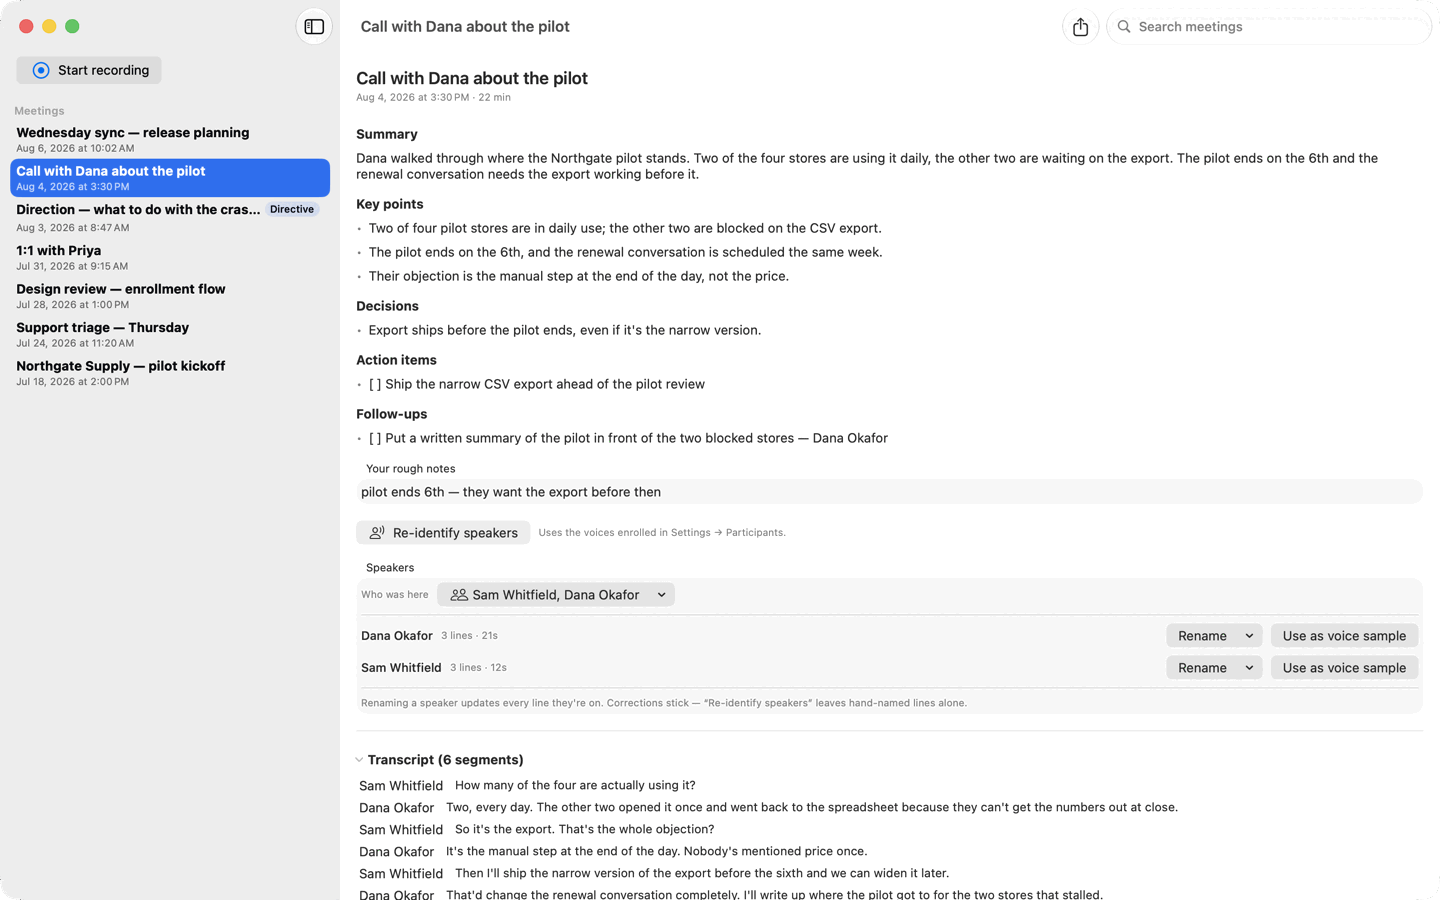
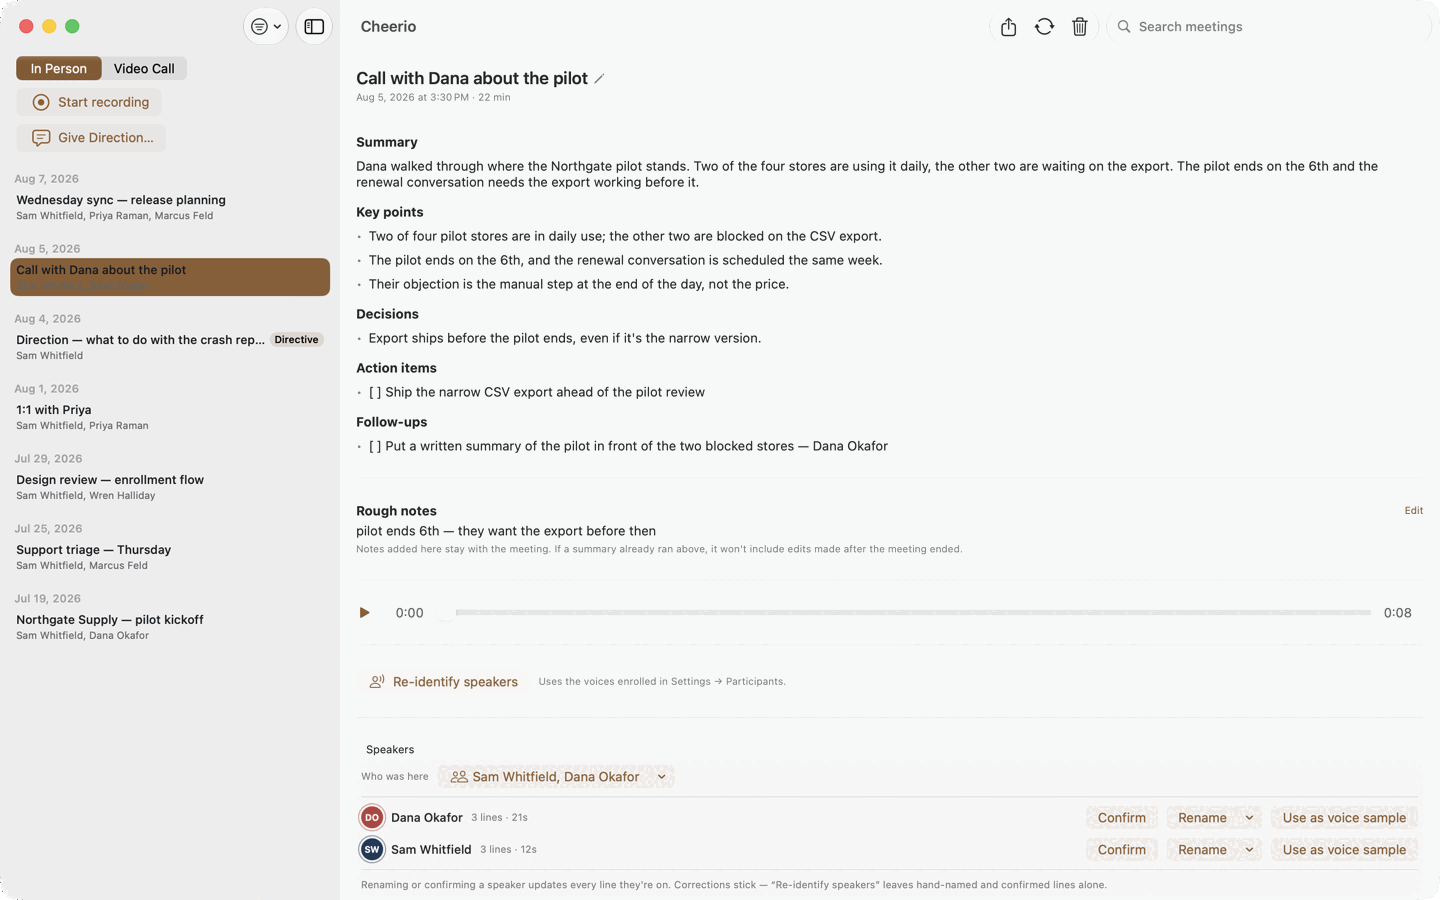
Site imagery: 26.8.13 captures from the maintainer's Retina pass
Copper accent, the new library hierarchy, participant subtitles, the
restructured detail view. The screenshots-current claim comes back and
the one-release-behind known issue comes off, both true again.

diff --git a/site/index.html b/site/index.html
@@ -142,7 +142,7 @@
       <div class="stack stack--3">
         <p class="label">Getting started</p>
         <h2 class="section-title">A walkthrough, a voice sample, and headphones.</h2>
-        <p class="muted" style="max-width:60ch">A walkthrough runs the first time you open Cheerio: it explains each permission before asking for it, and about thirty seconds of you talking is what turns “Speaker&nbsp;1” into your name in every meeting afterwards. Every screen in it is skippable. Every screenshot on this page is a capture of the app, against invented meetings.</p>
+        <p class="muted" style="max-width:60ch">A walkthrough runs the first time you open Cheerio: it explains each permission before asking for it, and about thirty seconds of you talking is what turns “Speaker&nbsp;1” into your name in every meeting afterwards. Every screen in it is skippable. Every screenshot on this page is a capture of the current build, against invented meetings.</p>
       </div>
 
       <figure class="shot">

diff --git a/site/releases.html b/site/releases.html
@@ -137,7 +137,6 @@
             <li>The mic hears your speakers: on a call played out loud in In Person mode, the transcript says everything twice. Use headphones. Video Call mode's echo cancellation still hasn't been verified against real speaker playback.</li>
             <li>The live transcript shows Me/Them during the meeting; names appear once it ends.</li>
             <li>Retained audio can't be re-transcribed from inside the app.</li>
-            <li>The website's screenshots are one release behind until the next capture pass.</li>
           </ul>
         </section>
       </div>
